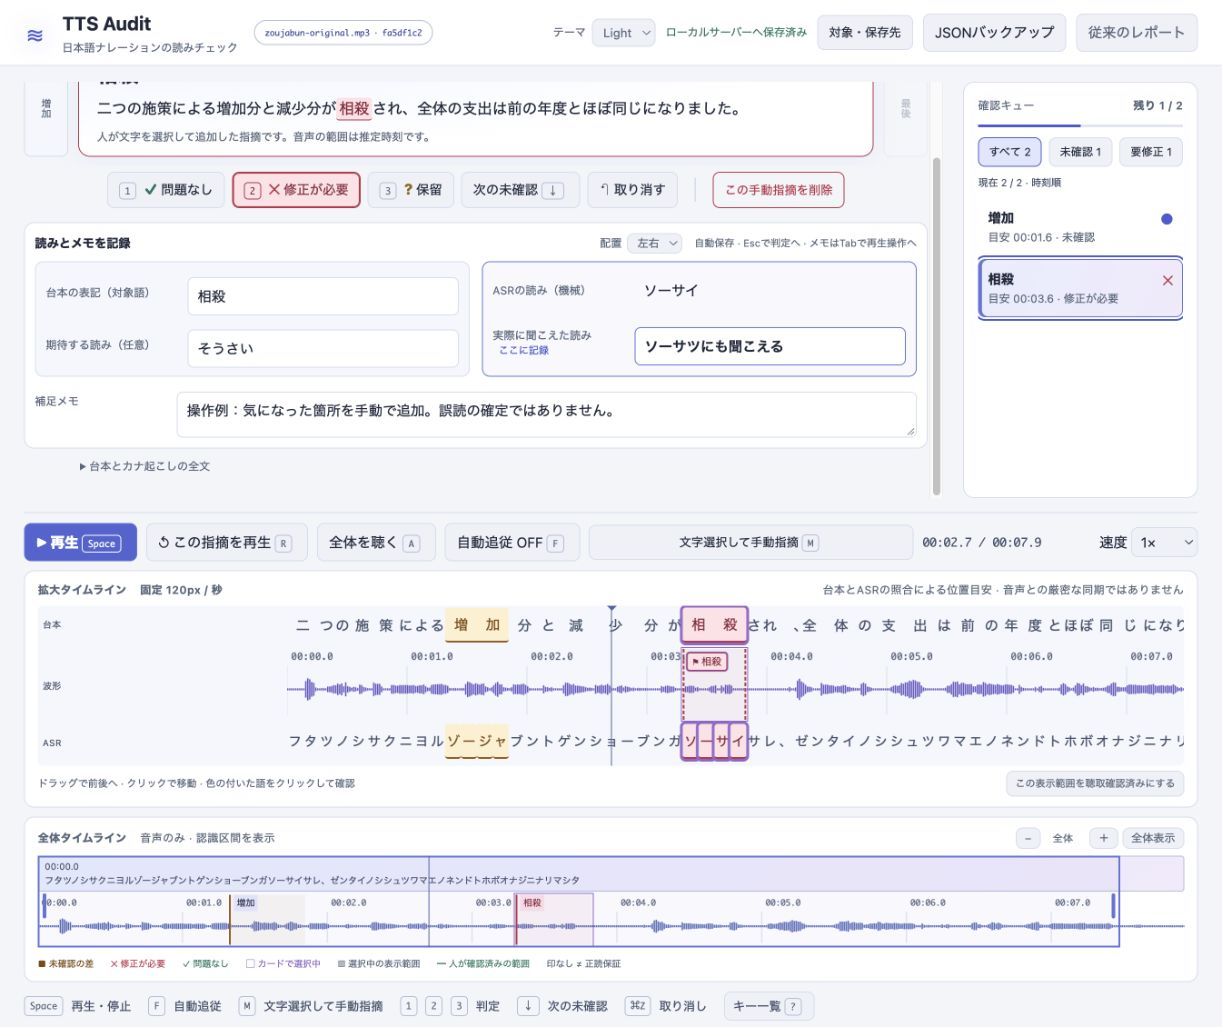
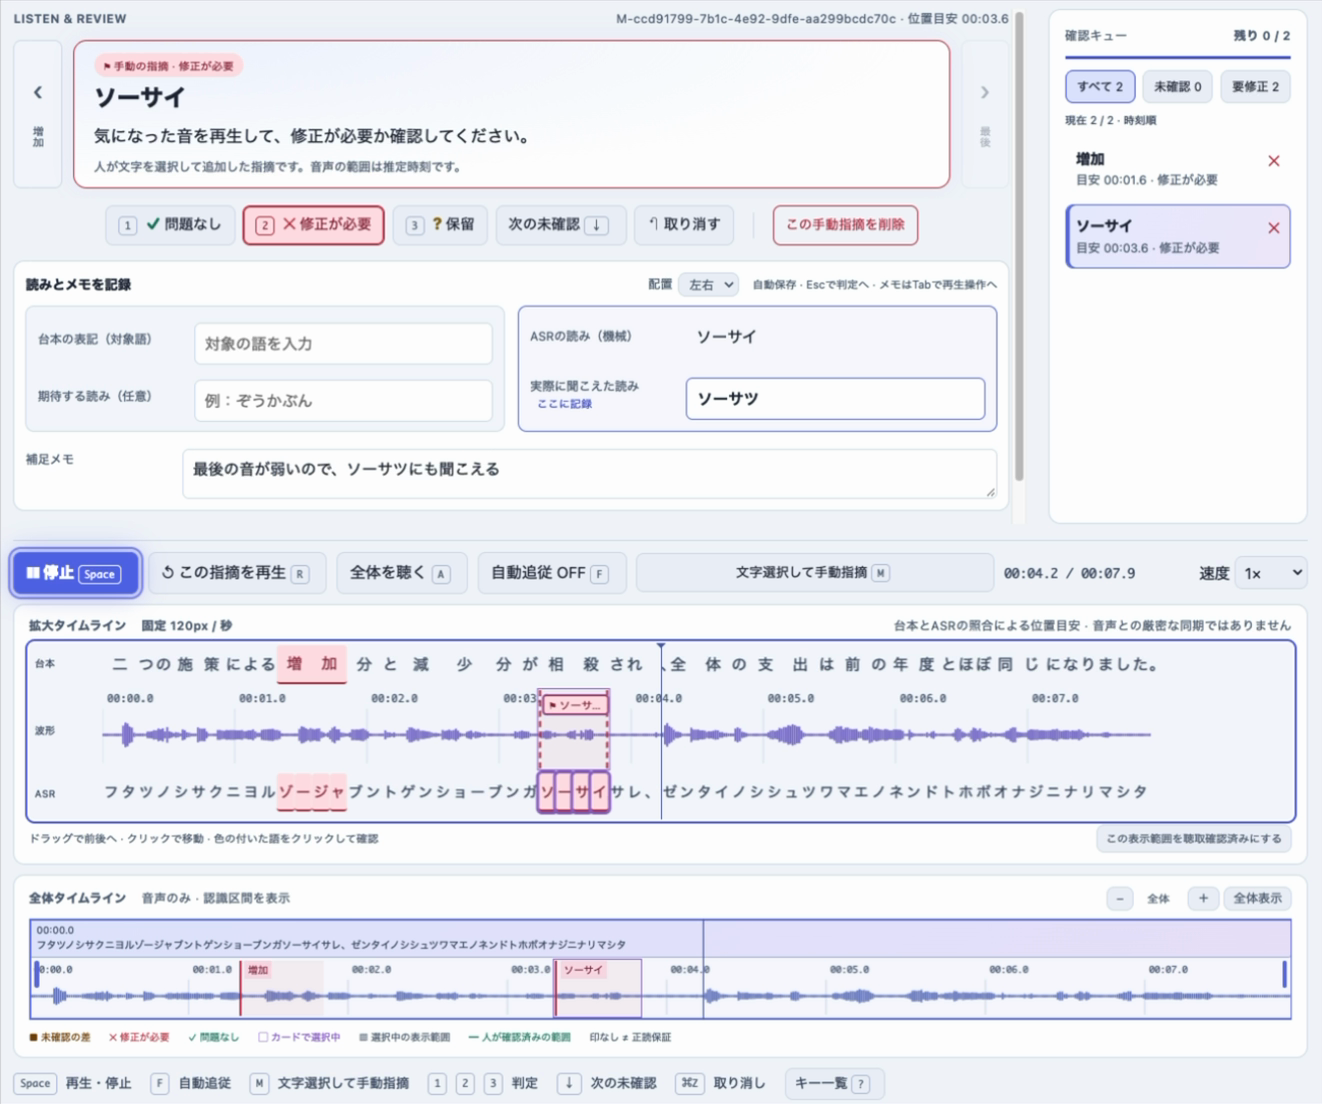
Use recorded manual-review workflow screenshot

diff --git a/docs/promotion-assets.md b/docs/promotion-assets.md
@@ -18,7 +18,7 @@
 ## 素材の意味
 
 - 全体画像は約63秒の実際のv2合成音声と、保存済みのカナASR・聴取結果から作業用コピーを作り、「掘削」を選択して撮影しました。赤はこの実験の人の判定で、検出精度の数値ではありません。
-- 文字選択・手動編集・削除の画像は、別の約8秒の音声のコピーに「相殺」を手動追加した操作例です。「ソーサツにも聞こえる」という想定のメモを入れています。誤読確認の実績や、ASRが見逃した実例として扱わないでください。
+- `text-selection-manual-flag.png` は、制作者が録画した20.47秒の操作動画の16.5秒地点から切り出した画像です。「相殺」のASR文字「ソーサイ」を選び、聞こえた読み「ソーサツ」とメモを入力した操作例です。音声の誤読を確定する実績ではありません。ほかの文字選択・削除画像は作業用コピーでの操作例です。
 - 作業用コピーだけを編集し、元の音声・ASR・聴取記録は変更していません。個人の入力パス・ブラウザーURL・認証用トークンは写していません。ファイル名とセッションIDは画面に表示されます。
 - 残り件数はこの例の未確認候補数です。正読保証や、音声全体の誤読件数ではありません。時刻は音声の推定または文字列の対応による位置目安です。
 
